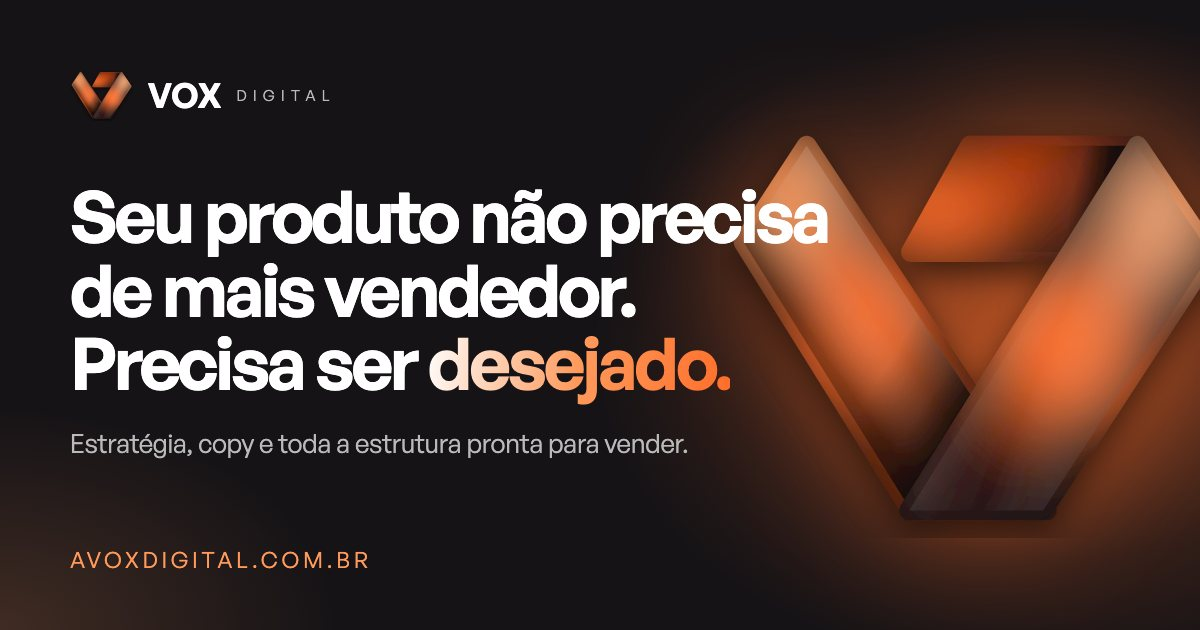
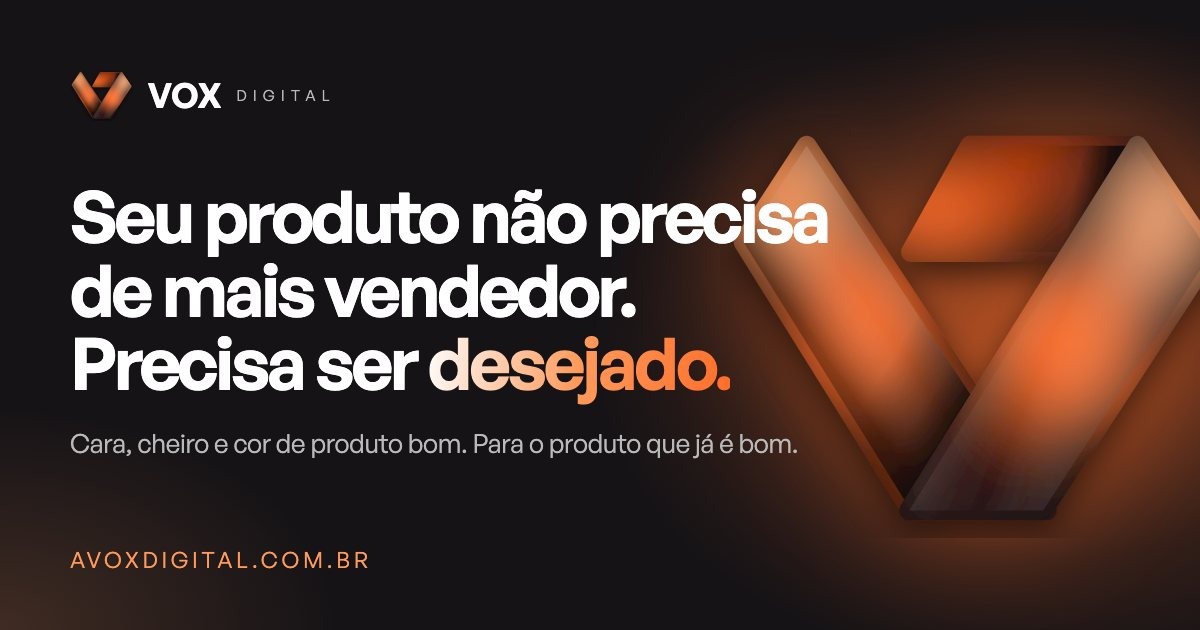
Promessa: o produto bom com cara, cheiro e cor de produto bom (sem prometer venda)

Changed region(s): [[0.0617, 0.6937, 0.6783, 0.7238]]

diff --git a/index.html b/index.html
@@ -4,7 +4,7 @@
 <meta charset="utf-8" />
 <meta name="viewport" content="width=device-width, initial-scale=1" />
 <title>Vox Digital | Seu produto não precisa de mais vendedor. Precisa ser desejado.</title>
-<meta name="description" content="A Vox cria a estratégia e a copy que fazem o seu produto bom ser desejado, e entrega pronta toda a estrutura para vender: páginas, VSL, vídeos, criativos e automações." />
+<meta name="description" content="Seu produto é bom. A Vox faz ele ter cara, cheiro e cor de produto bom: estratégia, narrativa e toda a estrutura pronta, de páginas e VSL a criativos e automações." />
 <link rel="canonical" href="https://avoxdigital.com.br/" />
 <meta name="robots" content="index, follow" />
 <meta name="theme-color" content="#161316" />
@@ -15,17 +15,17 @@
 <meta property="og:site_name" content="Vox Digital" />
 <meta property="og:url" content="https://avoxdigital.com.br/" />
 <meta property="og:title" content="Seu produto não precisa de mais vendedor. Precisa ser desejado." />
-<meta property="og:description" content="Estratégia, copy e toda a estrutura pronta para o seu produto bom vender o que vale." />
-<meta property="og:image" content="https://avoxdigital.com.br/assets/og-vox.jpg" />
-<meta property="og:image:secure_url" content="https://avoxdigital.com.br/assets/og-vox.jpg" />
+<meta property="og:description" content="Estratégia, narrativa e estrutura pronta para o seu produto bom parecer o que ele é." />
+<meta property="og:image" content="https://avoxdigital.com.br/assets/og-vox.jpg?v=2" />
+<meta property="og:image:secure_url" content="https://avoxdigital.com.br/assets/og-vox.jpg?v=2" />
 <meta property="og:image:type" content="image/jpeg" />
 <meta property="og:image:width" content="1200" />
 <meta property="og:image:height" content="630" />
 <meta property="og:image:alt" content="Vox Digital: seu produto não precisa de mais vendedor, precisa ser desejado." />
 <meta name="twitter:card" content="summary_large_image" />
 <meta name="twitter:title" content="Seu produto não precisa de mais vendedor. Precisa ser desejado." />
-<meta name="twitter:description" content="Estratégia, copy e toda a estrutura pronta para o seu produto bom vender o que vale." />
-<meta name="twitter:image" content="https://avoxdigital.com.br/assets/og-vox.jpg" />
+<meta name="twitter:description" content="Estratégia, narrativa e estrutura pronta para o seu produto bom parecer o que ele é." />
+<meta name="twitter:image" content="https://avoxdigital.com.br/assets/og-vox.jpg?v=2" />
 <link rel="icon" href="/favicon.ico" sizes="any" />
 <link rel="icon" href="assets/vox-simbolo.svg" type="image/svg+xml" />
 <link rel="apple-touch-icon" href="assets/apple-touch-icon.png" />
@@ -342,9 +342,9 @@ footer .wrap{display:flex;justify-content:space-between;align-items:center;gap:2
   <div class="wrap">
     <p class="rotulo rev">Estratégia · Copy · Estrutura pronta</p>
     <h1 class="rev d1">Seu produto não precisa de mais vendedor. <span class="feixe">Precisa ser desejado.</span></h1>
-    <p class="sub rev d2">A Vox cria a estratégia e a copy que fazem o seu produto vender. E entrega pronta toda a estrutura para isso acontecer: páginas, VSL, vídeos, criativos e automações.</p>
+    <p class="sub rev d2">Seu produto é bom. A Vox faz ele ter cara, cheiro e cor de produto bom: a estratégia e a narrativa certas, e toda a estrutura pronta para ele aparecer assim. Páginas, VSL, vídeos, criativos e automações.</p>
     <div class="acoes rev d3">
-      <a href="#aplicar" class="btn prim"><span class="ic"><svg><use href="#seta"/></svg></span><span class="tx">Quero meu produto vendável</span></a>
+      <a href="#aplicar" class="btn prim"><span class="ic"><svg><use href="#seta"/></svg></span><span class="tx">Quero mostrar o valor do meu produto</span></a>
     </div>
     <p class="micro rev d4">Formulário de 3 minutos. Lemos um por um. Nem todo mundo é chamado.</p>
   </div>
@@ -426,7 +426,7 @@ footer .wrap{display:flex;justify-content:space-between;align-items:center;gap:2
     <div class="metodo-topo">
       <div>
         <p class="rotulo rev">O mecanismo</p>
-        <h2 class="rev d1" style="margin-top:16px;max-width:700px">A gente faz o seu produto vender <span class="grad">antes de alguém tentar vendê-lo.</span></h2>
+        <h2 class="rev d1" style="margin-top:16px;max-width:700px">A gente faz o seu produto parecer o que ele é <span class="grad">antes de alguém tentar vendê-lo.</span></h2>
       </div>
       <div class="vox-letras grad-fogo rev d2">VOX</div>
     </div>
@@ -516,7 +516,7 @@ footer .wrap{display:flex;justify-content:space-between;align-items:center;gap:2
 <section>
   <div class="wrap">
     <p class="rotulo rev">Como funciona</p>
-    <h2 class="rev d1" style="margin-top:16px">Do formulário ao produto vendável. <span class="grad">Sem surpresa.</span></h2>
+    <h2 class="rev d1" style="margin-top:16px">Do formulário ao produto que parece o que é. <span class="grad">Sem surpresa.</span></h2>
     <div class="passos grupo">
       <div class="passo vidro rev"><span class="n">01</span><div><h3>Você aplica</h3><p>3 minutos. Responda com sinceridade: isso define se faz sentido conversar.</p></div></div>
       <div class="passo vidro rev"><span class="n">02</span><div><h3>A gente lê</h3><p>Um por um, por gente. [PRAZO de retorno]</p></div></div>
